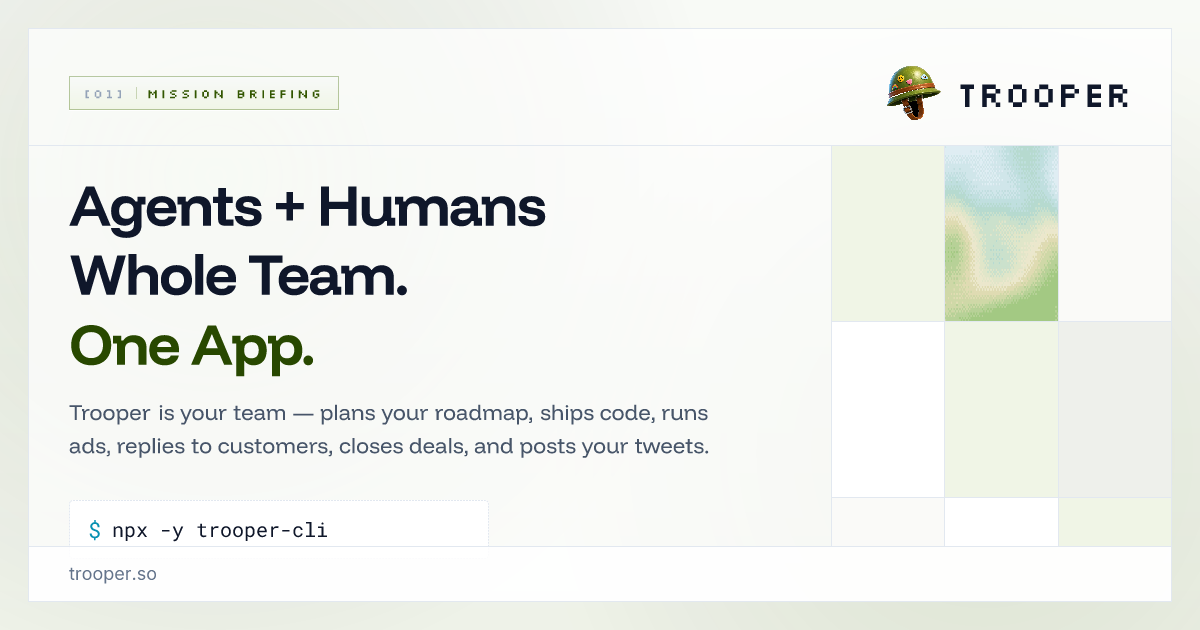
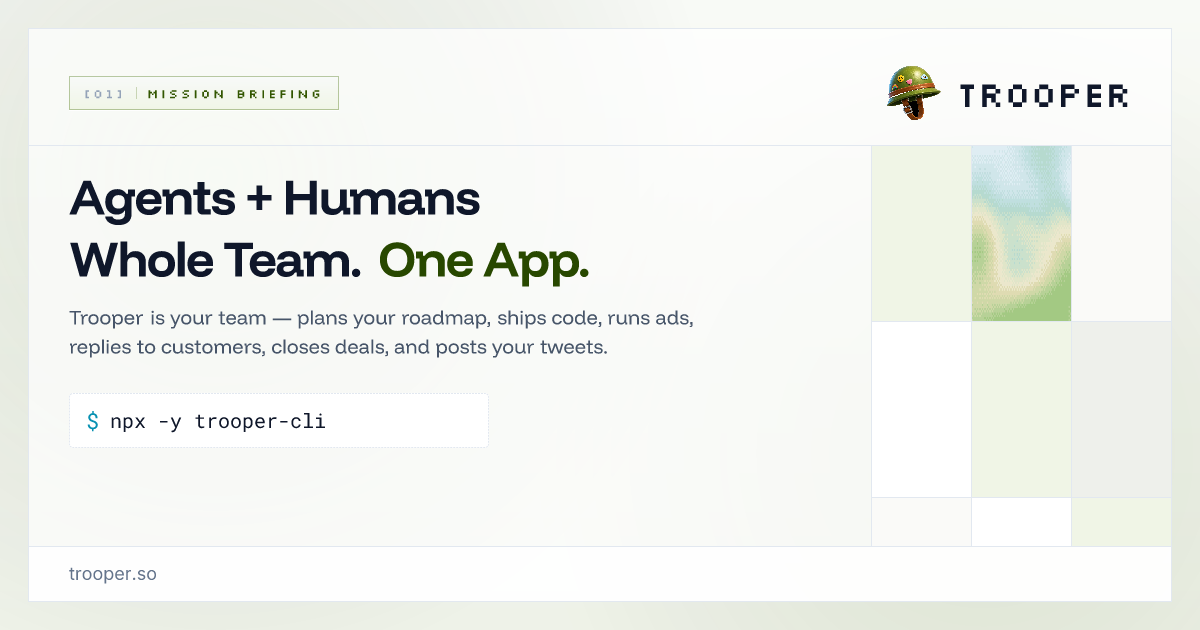
Fix home OG layout to match two-line hero headline.
Put Whole Team and One App on one line, tighten spacing, and stretch the side grid panel.

diff --git a/lib/og/render.tsx b/lib/og/render.tsx
@@ -98,6 +98,77 @@ function truncate(text: string, max: number) {
   return `${text.slice(0, max - 1).trim()}…`;
 }
 
+function HeadlineBlock({ content }: { content: OgHeroContent }) {
+  const singleLine = content.singleLineHeadline !== false;
+  const headlineSize = content.headlineLead ? 50 : 58;
+  const headlineStyle = {
+    fontSize: headlineSize,
+    lineHeight: 1.08,
+    fontWeight: 700,
+    letterSpacing: '-0.03em',
+    fontFamily: 'Erode',
+  } as const;
+
+  const primaryAccent = (
+    <>
+      <span
+        style={{
+          ...headlineStyle,
+          color: '#0f172a',
+          marginRight: content.headlineAccent && singleLine ? 12 : 0,
+        }}
+      >
+        {content.headlinePrimary}
+      </span>
+      {content.headlineAccent ? (
+        <span
+          style={{
+            ...headlineStyle,
+            color: BRAND_GREEN,
+          }}
+        >
+          {content.headlineAccent}
+        </span>
+      ) : null}
+    </>
+  );
+
+  return (
+    <div style={{ display: 'flex', flexDirection: 'column', maxWidth: 720 }}>
+      {content.headlineLead ? (
+        <div
+          style={{
+            ...headlineStyle,
+            color: '#0f172a',
+          }}
+        >
+          {content.headlineLead}
+        </div>
+      ) : null}
+      {singleLine ? (
+        <div
+          style={{
+            display: 'flex',
+            flexDirection: 'row',
+            flexWrap: 'wrap',
+            alignItems: 'baseline',
+            marginTop: content.headlineLead ? 6 : 0,
+          }}
+        >
+          {primaryAccent}
+        </div>
+      ) : (
+        <div style={{ display: 'flex', flexDirection: 'column', marginTop: content.headlineLead ? 6 : 0 }}>
+          <div style={{ ...headlineStyle, color: '#0f172a' }}>{content.headlinePrimary}</div>
+          {content.headlineAccent ? (
+            <div style={{ ...headlineStyle, color: BRAND_GREEN, marginTop: 4 }}>{content.headlineAccent}</div>
+          ) : null}
+        </div>
+      )}
+    </div>
+  );
+}
+
 function BadgeRow({ badges }: { badges: NonNullable<OgHeroContent['badgeIcons']> }) {
   return (
     <div style={{ display: 'flex', flexWrap: 'wrap', gap: 10, marginTop: 20 }}>
@@ -137,8 +208,9 @@ function DecorativeGridPanel() {
       style={{
         display: 'flex',
         flexDirection: 'column',
-        width: 340,
+        width: 300,
         flexShrink: 0,
+        alignSelf: 'stretch',
         borderLeft: `1px solid ${SLATE_200}`,
         background: SLATE_200,
         gap: 1,
@@ -164,7 +236,6 @@ function DecorativeGridPanel() {
 }
 
 export function OgHeroImage({ content }: { content: OgHeroContent }) {
-  const singleLine = content.singleLineHeadline !== false;
   const badges = mergeBadgeIcons(content.badgeIcons, content.description);
   const displayUrl = formatOgDisplayUrl(content.pageUrl || 'https://trooper.so');
 
@@ -217,14 +288,14 @@ export function OgHeroImage({ content }: { content: OgHeroContent }) {
         </div>
 
         {/* Main body — content column + decorative grid panel */}
-        <div style={{ display: 'flex', flex: 1 }}>
+        <div style={{ display: 'flex', flex: 1, alignItems: 'stretch', minHeight: 0 }}>
           <div
             style={{
               display: 'flex',
               flexDirection: 'column',
               flex: 1,
-              padding: `28px ${FRAME_PAD_X}px 24px`,
-              justifyContent: 'space-between',
+              minWidth: 0,
+              padding: `24px ${FRAME_PAD_X}px 20px`,
             }}
           >
             <div style={{ display: 'flex', flexDirection: 'column' }}>
@@ -240,105 +311,22 @@ export function OgHeroImage({ content }: { content: OgHeroContent }) {
                   />
                 ) : null}
                 <div style={{ display: 'flex', flexDirection: 'column', flex: 1 }}>
-                  {singleLine ? (
-                    <div
-                      style={{
-                        display: 'flex',
-                        flexDirection: 'row',
-                        flexWrap: 'wrap',
-                        alignItems: 'baseline',
-                        maxWidth: 720,
-                      }}
-                    >
-                      <span
-                        style={{
-                          fontSize: 58,
-                          lineHeight: 1.08,
-                          fontWeight: 700,
-                          color: '#0f172a',
-                          letterSpacing: '-0.03em',
-                          fontFamily: 'Erode',
-                          marginRight: content.headlineAccent ? 14 : 0,
-                        }}
-                      >
-                        {content.headlinePrimary}
-                      </span>
-                      {content.headlineAccent ? (
-                        <span
-                          style={{
-                            fontSize: 58,
-                            lineHeight: 1.08,
-                            fontWeight: 700,
-                            color: BRAND_GREEN,
-                            letterSpacing: '-0.03em',
-                            fontFamily: 'Erode',
-                          }}
-                        >
-                          {content.headlineAccent}
-                        </span>
-                      ) : null}
-                    </div>
-                  ) : (
-                    <div style={{ display: 'flex', flexDirection: 'column' }}>
-                      {content.headlineLead ? (
-                        <div
-                          style={{
-                            fontSize: 58,
-                            lineHeight: 1.08,
-                            fontWeight: 700,
-                            color: '#0f172a',
-                            letterSpacing: '-0.03em',
-                            fontFamily: 'Erode',
-                          }}
-                        >
-                          {content.headlineLead}
-                        </div>
-                      ) : null}
-                      <div
-                        style={{
-                          fontSize: 58,
-                          lineHeight: 1.08,
-                          fontWeight: 700,
-                          color: '#0f172a',
-                          letterSpacing: '-0.03em',
-                          fontFamily: 'Erode',
-                          marginTop: content.headlineLead ? 4 : 0,
-                        }}
-                      >
-                        {content.headlinePrimary}
-                      </div>
-                      {content.headlineAccent ? (
-                        <div
-                          style={{
-                            fontSize: 58,
-                            lineHeight: 1.08,
-                            fontWeight: 700,
-                            color: BRAND_GREEN,
-                            letterSpacing: '-0.03em',
-                            fontFamily: 'Erode',
-                            marginTop: 4,
-                          }}
-                        >
-                          {content.headlineAccent}
-                        </div>
-                      ) : null}
-                    </div>
-                  )}
+                  <HeadlineBlock content={content} />
                 </div>
               </div>
 
               {content.description ? (
                 <p
                   style={{
-                    marginTop: 18,
-                    maxWidth: 680,
-                    fontSize: 22,
-                    lineHeight: 1.45,
+                    marginTop: 14,
+                    maxWidth: 640,
+                    fontSize: 20,
+                    lineHeight: 1.4,
                     color: '#475569',
                     fontFamily: 'Erode',
                   }}
                 >
-                  {truncate(content.description, 160)}
+                  {truncate(content.description, 140)}
                 </p>
               ) : null}
 
@@ -347,13 +335,13 @@ export function OgHeroImage({ content }: { content: OgHeroContent }) {
               {content.showSetup ? (
                 <div
                   style={{
-                    marginTop: 22,
+                    marginTop: 16,
                     display: 'flex',
                     alignItems: 'center',
                     maxWidth: 420,
                     border: `1px dashed ${SLATE_200}`,
                     borderRadius: 4,
-                    padding: '14px 18px',
+                    padding: '12px 16px',
                     background: '#ffffff',
                   }}
                 >

diff --git a/lib/og/resolveContent.ts b/lib/og/resolveContent.ts
@@ -19,7 +19,7 @@ const HOME_OG: OgHeroContent = {
   description:
     'Trooper is your team — plans your roadmap, ships code, runs ads, replies to customers, closes deals, and posts your tweets.',
   showSetup: true,
-  singleLineHeadline: false,
+  singleLineHeadline: true,
   pageUrl: 'https://trooper.so',
 };
 
